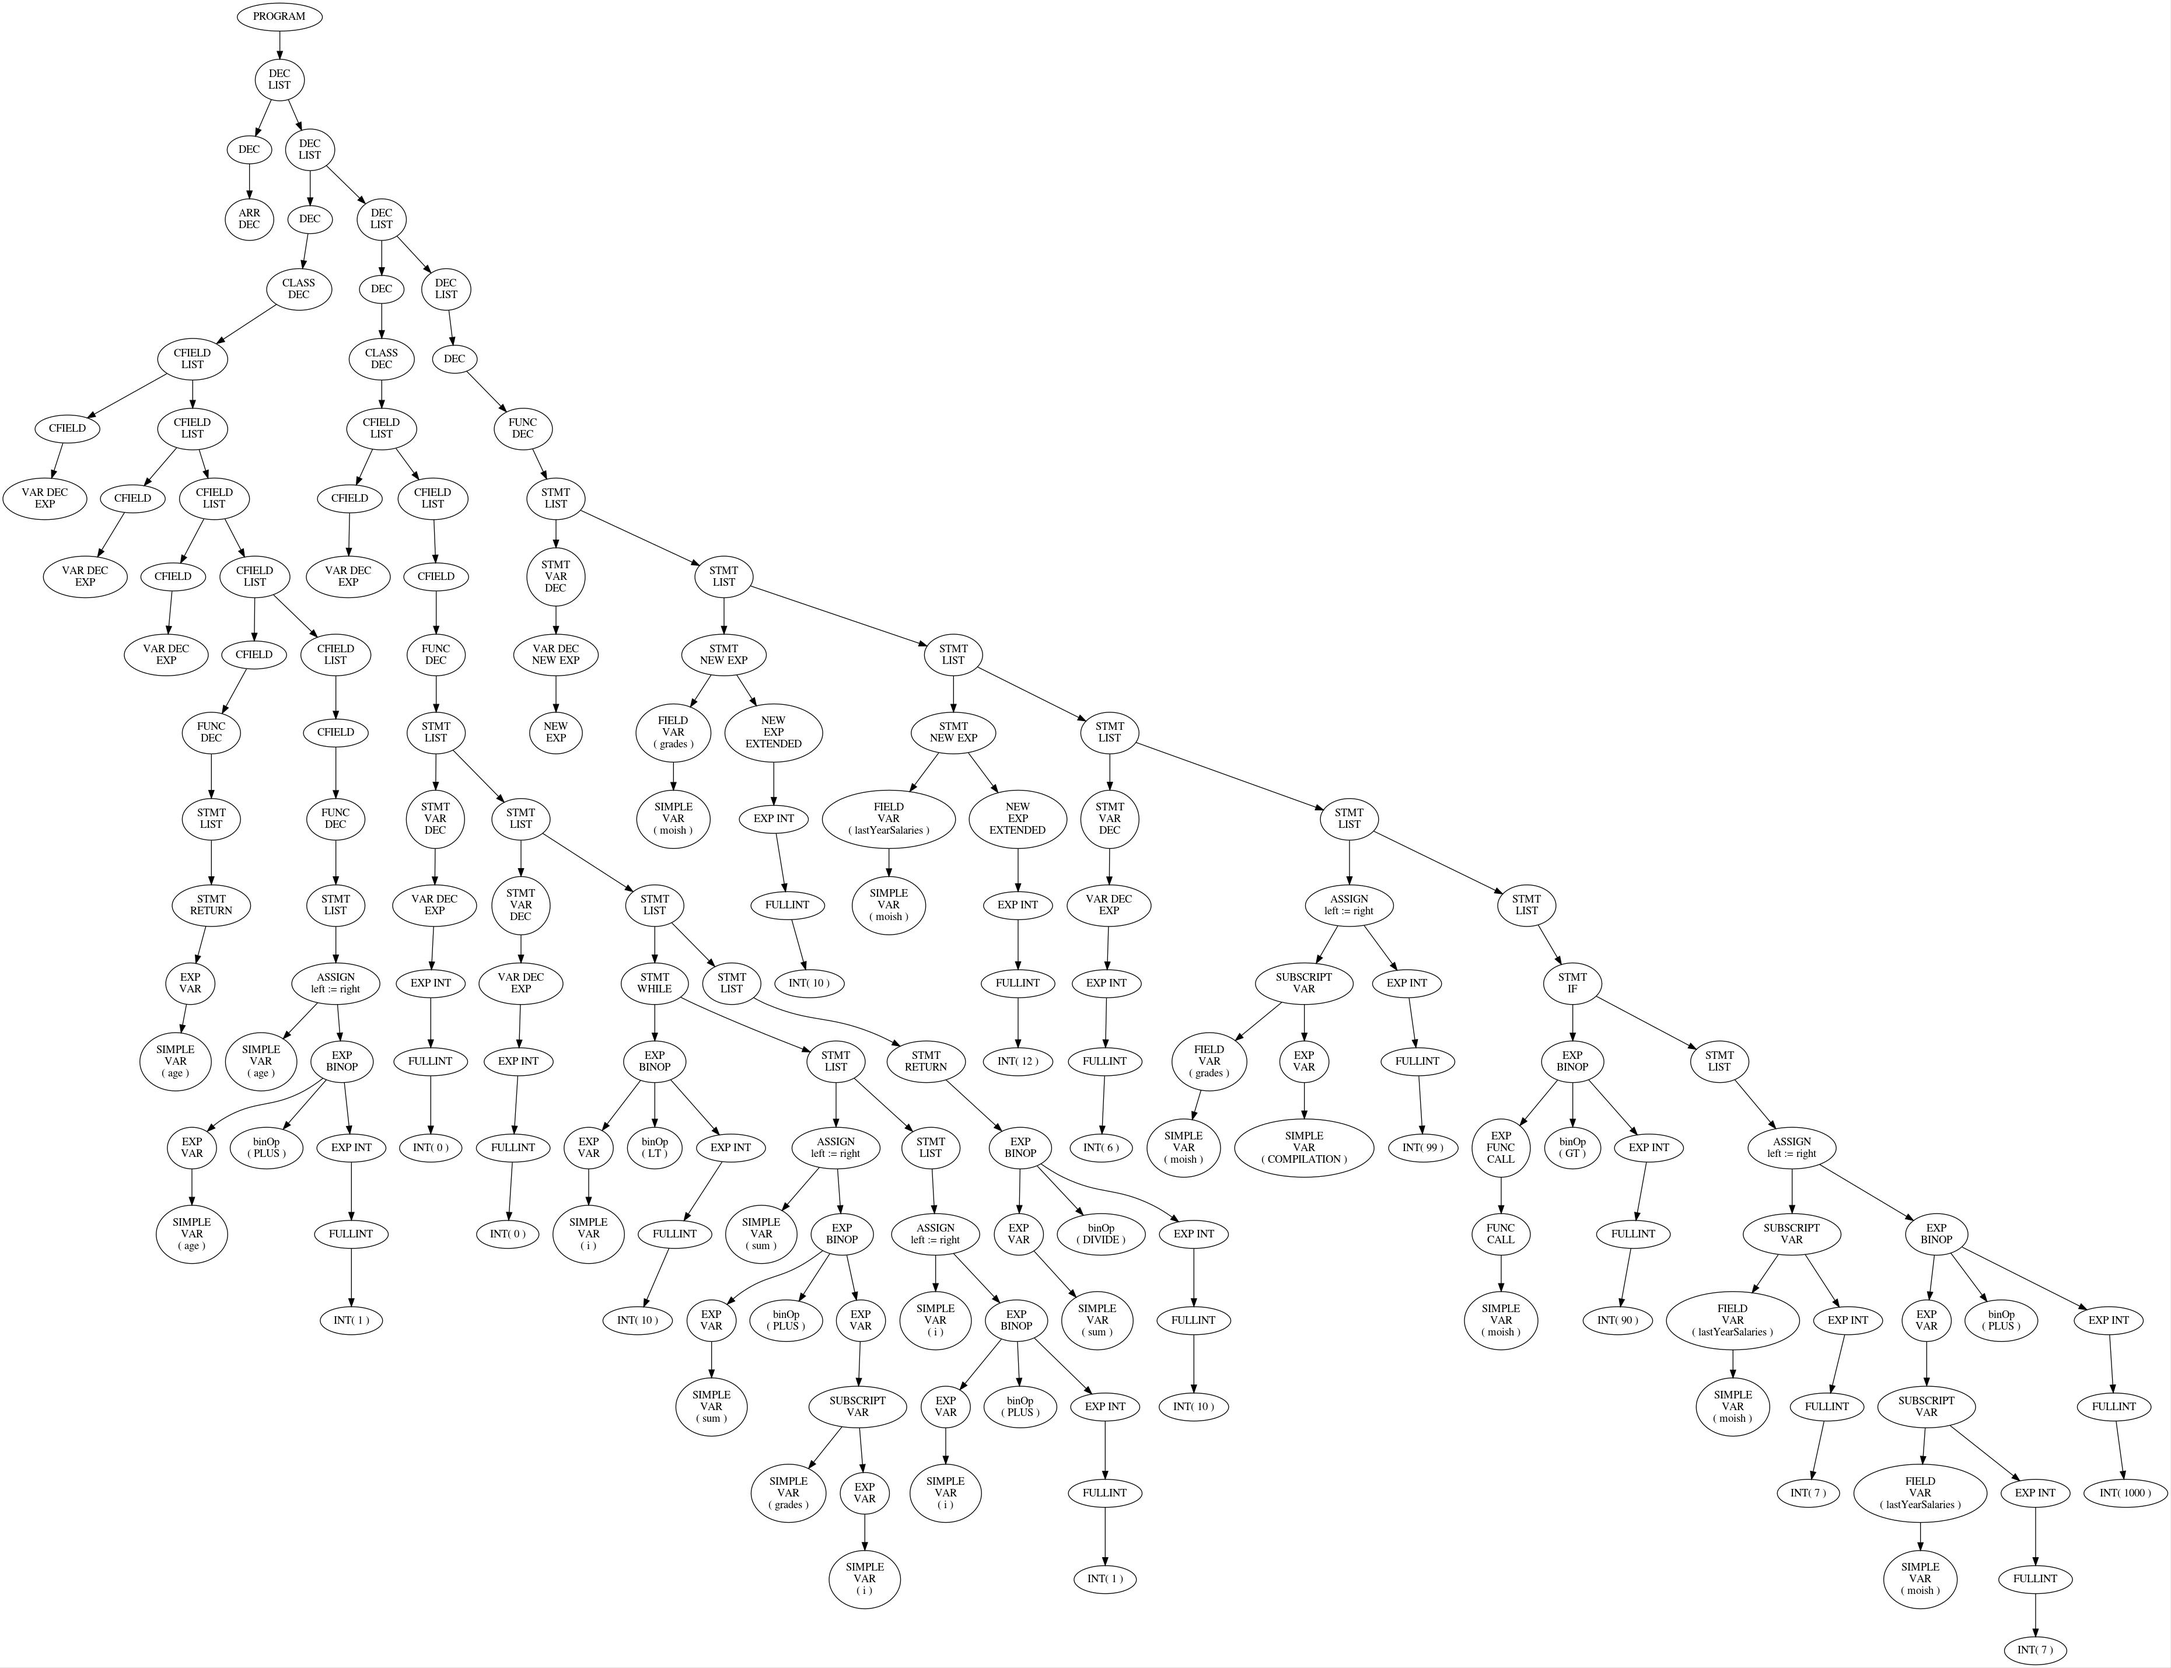
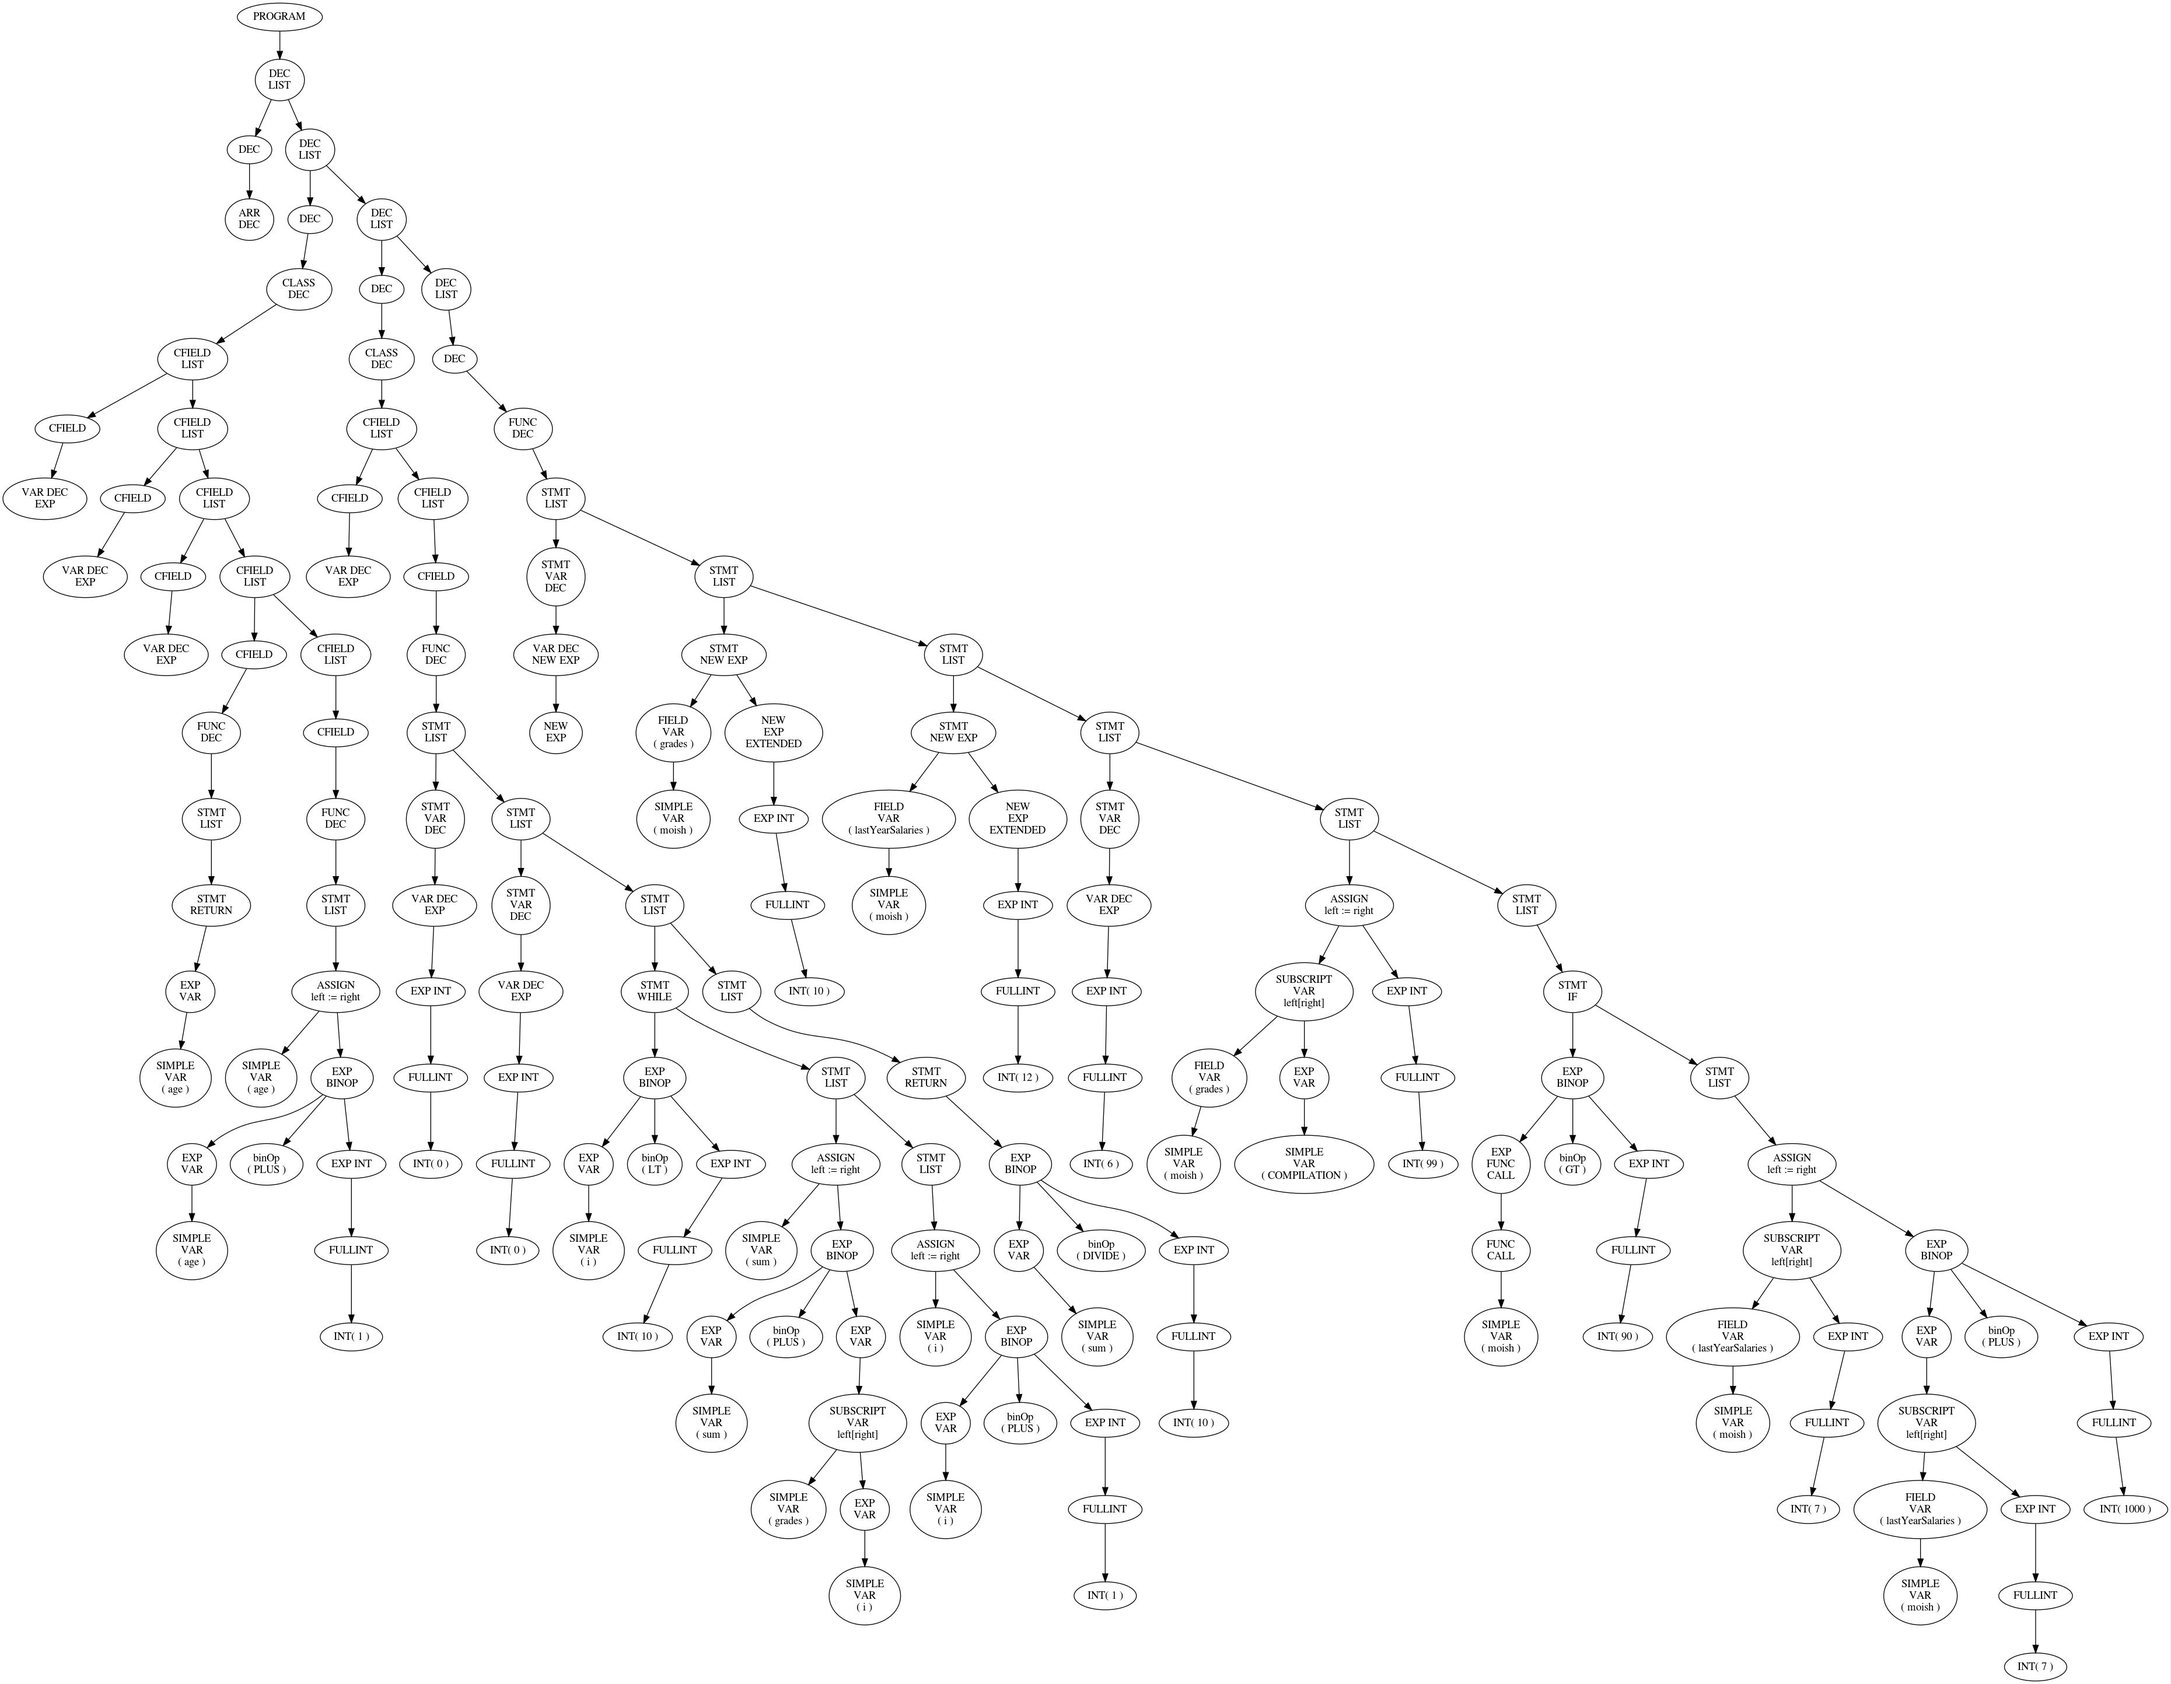
AST_VAR_SUBSCRIPT is now more descriptive

diff --git a/EX2/FOLDER_2_SRC/AST/AST_VAR_SUBSCRIPT.java b/EX2/FOLDER_2_SRC/AST/AST_VAR_SUBSCRIPT.java
@@ -48,7 +48,7 @@ public class AST_VAR_SUBSCRIPT extends AST_VAR
 		/***************************************/
 		AST_GRAPHVIZ.getInstance().logNode(
 			SerialNumber,
-			"SUBSCRIPT\nVAR\n");
+			"SUBSCRIPT\nVAR\nleft[right]");
 		
 		/****************************************/
 		/* PRINT Edges to AST GRAPHVIZ DOT file */
